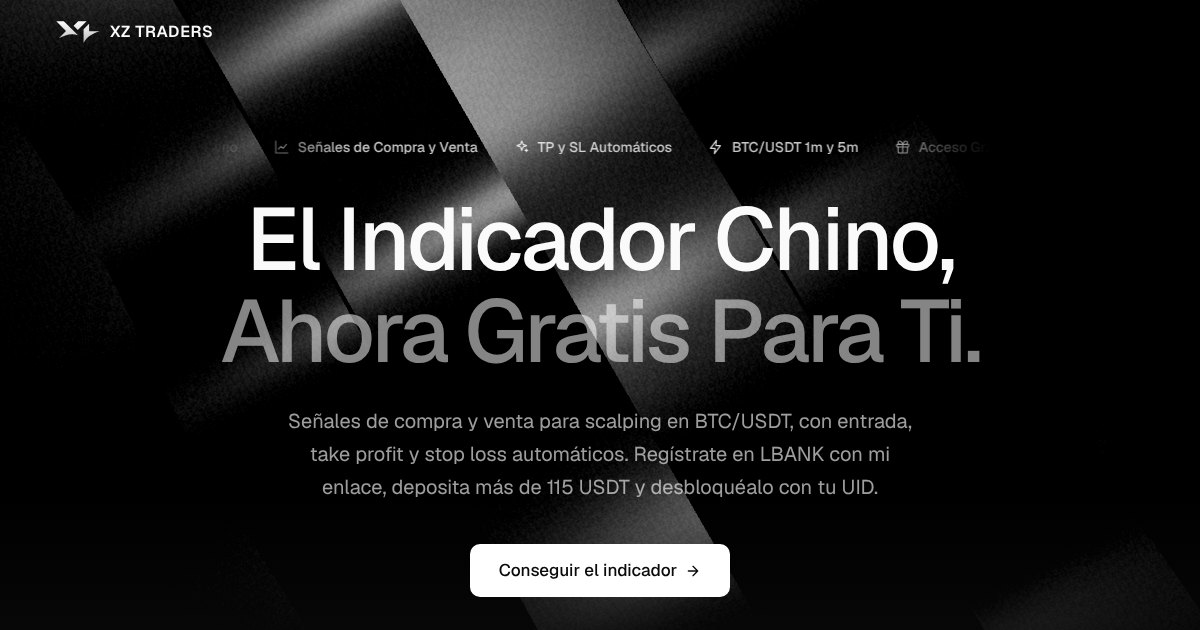
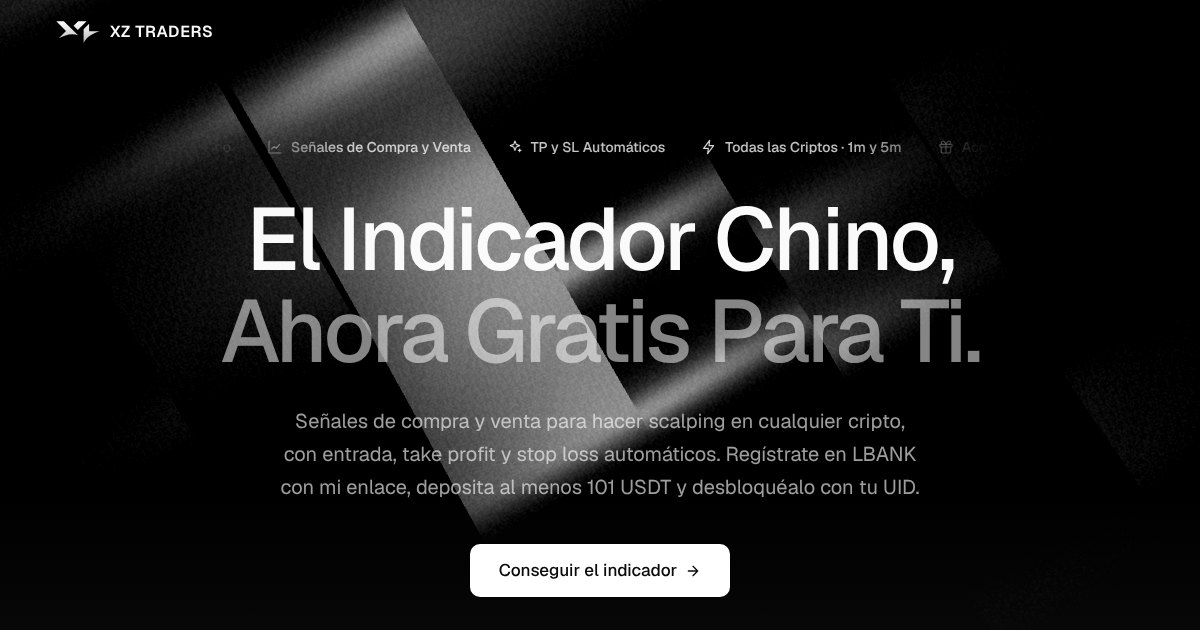
Web: mínimo de 101 USDT y scalping para todas las criptos
- Todos los textos pasan de "más de 115 USDT" a "al menos 101 USDT".
  La API sigue exigiendo 100 USDT (MIN_DEPOSIT), para dejar margen.
- El indicador se presenta como scalping para cualquier cripto, no
  solo BTC/USDT.
- Imagen para redes regenerada.

Claude-Session: https://claude.ai/code/session_01BGcnFHYadWKZMfGM3phv2L

diff --git a/public/index.html b/public/index.html
@@ -12,7 +12,7 @@
     <title>Indicador Chino de XZ TRADERS · Gratis con tu cuenta de LBANK</title>
     <meta
       name="description"
-      content="Consigue gratis el indicador chino de XZ TRADERS para TradingView: señales de compra y venta en BTC/USDT con entrada, take profit y stop loss automáticos. Regístrate en LBANK con nuestro enlace, deposita más de 115 USDT y desbloquéalo con tu UID."
+      content="Consigue gratis el indicador chino de XZ TRADERS para TradingView: señales de scalping para cualquier cripto con entrada, take profit y stop loss automáticos. Regístrate en LBANK con nuestro enlace, deposita al menos 101 USDT y desbloquéalo con tu UID."
     />
     <meta name="theme-color" content="#000000" />
     <link rel="canonical" href="https://indicador.xztraders.com/" />
@@ -24,7 +24,7 @@
     <meta property="og:title" content="El Indicador Chino de XZ TRADERS, ahora gratis" />
     <meta
       property="og:description"
-      content="Regístrate en LBANK con nuestro enlace, deposita más de 115 USDT y desbloquéalo al momento con tu UID."
+      content="Regístrate en LBANK con nuestro enlace, deposita al menos 101 USDT y desbloquéalo al momento con tu UID."
     />
     <meta property="og:image" content="https://indicador.xztraders.com/assets/img/og-cover.jpg" />
     <meta property="og:image:width" content="1200" />
@@ -111,14 +111,14 @@
               <li><svg aria-hidden="true"><use href="#i-indicator" /></svg>Indicador Chino</li>
               <li><svg aria-hidden="true"><use href="#i-analysis" /></svg>Señales de Compra y Venta</li>
               <li><svg aria-hidden="true"><use href="#i-sparkles" /></svg>TP y SL Automáticos</li>
-              <li><svg aria-hidden="true"><use href="#i-bolt" /></svg>BTC/USDT 1m y 5m</li>
+              <li><svg aria-hidden="true"><use href="#i-bolt" /></svg>Todas las Criptos · 1m y 5m</li>
               <li><svg aria-hidden="true"><use href="#i-gift" /></svg>Acceso Gratis</li>
             </ul>
             <ul class="marquee__track" aria-hidden="true">
               <li><svg><use href="#i-indicator" /></svg>Indicador Chino</li>
               <li><svg><use href="#i-analysis" /></svg>Señales de Compra y Venta</li>
               <li><svg><use href="#i-sparkles" /></svg>TP y SL Automáticos</li>
-              <li><svg><use href="#i-bolt" /></svg>BTC/USDT 1m y 5m</li>
+              <li><svg><use href="#i-bolt" /></svg>Todas las Criptos · 1m y 5m</li>
               <li><svg><use href="#i-gift" /></svg>Acceso Gratis</li>
             </ul>
           </div>
@@ -129,8 +129,8 @@
           </h1>
 
           <p class="hero__lead">
-            Señales de compra y venta para scalping en BTC/USDT, con entrada, take profit y stop loss automáticos.
-            Regístrate en LBANK con mi enlace, deposita más de 115&nbsp;USDT y desbloquéalo con tu UID.
+            Señales de compra y venta para hacer scalping en cualquier cripto, con entrada, take profit y stop loss automáticos.
+            Regístrate en LBANK con mi enlace, deposita al menos 101&nbsp;USDT y desbloquéalo con tu UID.
           </p>
 
           <div class="hero__ctas">
@@ -167,8 +167,8 @@
             </article>
             <article class="feature reveal">
               <span class="icon-box icon-box--accent"><svg aria-hidden="true"><use href="#i-bolt" /></svg></span>
-              <h3>Scalping en BTC/USDT</h3>
-              <p>Pensado para BTC/USDT perpetuo en gráficos de 1 y 5 minutos.</p>
+              <h3>Scalping en todas las criptos</h3>
+              <p>Úsalo en Bitcoin y en cualquier otra cripto, en gráficos de 1 y 5 minutos.</p>
             </article>
             <article class="feature reveal">
               <span class="icon-box icon-box--accent"><svg aria-hidden="true"><use href="#i-analysis" /></svg></span>
@@ -206,7 +206,7 @@
             <li class="step reveal">
               <span class="step__num">02</span>
               <span class="icon-box"><svg aria-hidden="true"><use href="#i-wallet" /></svg></span>
-              <h3>Deposita más de 115&nbsp;USDT</h3>
+              <h3>Deposita al menos 101&nbsp;USDT</h3>
               <p>Es tu capital para operar y se queda en tu cuenta. No es un pago.</p>
             </li>
             <li class="step reveal">
@@ -228,7 +228,7 @@
           <div class="section-head section-head--center reveal">
             <p class="eyebrow eyebrow--lines">Desbloquear</p>
             <h2 class="h2 h2--xl">Consigue el indicador.</h2>
-            <p class="lead">Comprobamos que tu cuenta se creó con mi enlace y que has depositado más de 115&nbsp;USDT. Si todo está bien, te damos el enlace al momento.</p>
+            <p class="lead">Comprobamos que tu cuenta se creó con mi enlace y que has depositado al menos 101&nbsp;USDT. Si todo está bien, te damos el enlace al momento.</p>
           </div>
 
           <div class="verify reveal">
@@ -278,10 +278,10 @@
             </details>
             <details>
               <summary>¿Cómo consigo el indicador?<svg aria-hidden="true"><use href="#i-plus" /></svg></summary>
-              <p>Regístrate en LBANK con mi enlace, deposita más de 115&nbsp;USDT y escribe tu UID en el <a class="link" href="#verificar">formulario de verificación</a>. Si todo está bien, recibes el enlace al momento.</p>
+              <p>Regístrate en LBANK con mi enlace, deposita al menos 101&nbsp;USDT y escribe tu UID en el <a class="link" href="#verificar">formulario de verificación</a>. Si todo está bien, recibes el enlace al momento.</p>
             </details>
             <details>
-              <summary>¿Los 115&nbsp;USDT son un pago?<svg aria-hidden="true"><use href="#i-plus" /></svg></summary>
+              <summary>¿Los 101&nbsp;USDT son un pago?<svg aria-hidden="true"><use href="#i-plus" /></svg></summary>
               <p>No. Es tu capital para operar y se queda en tu cuenta de LBANK.</p>
             </details>
             <details>
@@ -298,7 +298,7 @@
             </details>
             <details>
               <summary>¿Qué es el indicador chino?<svg aria-hidden="true"><use href="#i-plus" /></svg></summary>
-              <p>Un indicador de scalping para BTC/USDT en 1 y 5 minutos. Da señales de compra y venta con entrada, take profit y stop loss automáticos, y marca cada operación con ✓ si llega al TP o con ✗ si toca el SL.</p>
+              <p>Un indicador de scalping para cripto: sirve para Bitcoin y para cualquier otra moneda, en gráficos de 1 y 5 minutos. Da señales de compra y venta con entrada, take profit y stop loss automáticos, y marca cada operación con ✓ si llega al TP o con ✗ si toca el SL.</p>
             </details>
             <details>
               <summary>¿Dónde lo uso?<svg aria-hidden="true"><use href="#i-plus" /></svg></summary>

diff --git a/public/assets/js/main.js b/public/assets/js/main.js
@@ -25,7 +25,7 @@ const VERIFY_MESSAGES = {
   },
   not_registered: {
     title: 'Esta cuenta no está registrada con mi enlace',
-    text: 'Crea una cuenta nueva en LBANK con mi enlace, deposita más de 115 USDT y vuelve a probar.',
+    text: 'Crea una cuenta nueva en LBANK con mi enlace, deposita al menos 101 USDT y vuelve a probar.',
     action: { label: 'Abrir LBANK', link: 'lbank' },
   },
   not_direct: {
@@ -34,8 +34,8 @@ const VERIFY_MESSAGES = {
     action: { label: 'Abrir LBANK', link: 'lbank' },
   },
   low_deposit: {
-    title: 'Aún no llegas a 115 USDT depositados',
-    text: 'Deposita más de 115 USDT en tu cuenta de LBANK. Si acabas de hacerlo, espera unos minutos y vuelve a probar.',
+    title: 'Aún no llegas a 101 USDT depositados',
+    text: 'Deposita al menos 101 USDT en tu cuenta de LBANK. Si acabas de hacerlo, espera unos minutos y vuelve a probar.',
   },
   rate_limited: {
     title: 'Demasiados intentos',

diff --git a/test/verify.test.js b/test/verify.test.js
@@ -121,7 +121,7 @@ describe('/api/verify', () => {
     assert.deepEqual(body, { ok: true, url: ENV.INDICATOR_URL });
   });
 
-  it('acepta justo el mínimo de la API (100), aunque la web diga 115', async () => {
+  it('acepta justo el mínimo de la API (100), aunque la web diga 101', async () => {
     assert.equal((await verify('LBA000EXACT', users)).body.ok, true);
     assert.equal((await verify('LBA000110', users)).body.ok, true);
   });

diff --git a/README.md b/README.md
@@ -3,7 +3,7 @@
 Web del **Indicador Chino** de XZ TRADERS. Para conseguirlo, el usuario:
 
 1. Se registra en LBANK con el enlace de afiliado.
-2. Deposita más de 115 USDT.
+2. Deposita al menos 101 USDT.
 3. Escribe su UID de LBANK en la web. Se comprueba al momento con la API de afiliados de LBANK y, si cumple, recibe el enlace del indicador.
 
 La web se publica en **Netlify**. La comprobación es una función de Netlify (`/api/verify`) porque la clave de la API de LBANK no puede estar en la página: cualquiera podría verla, y además LBANK no deja que un navegador llame a su API directamente.
@@ -53,7 +53,7 @@ Se configuran en Netlify, en *Site configuration → Environment variables*. Nun
 | `LBANK_API_KEY`         | Sí          | API key de afiliado de LBANK                                           |
 | `LBANK_API_SECRET`      | Sí          | Secret key de esa API key (firma HmacSHA256)                           |
 | `INDICATOR_URL`         | Sí          | Enlace que recibe quien cumple: `https://es.tradingview.com/script/stIGX5O9/` |
-| `MIN_DEPOSIT`           | No (`100`)  | USDT mínimos que exige la API. La web pide 115 a propósito: así hay margen |
+| `MIN_DEPOSIT`           | No (`100`)  | USDT mínimos que exige la API. La web pide 101 a propósito: así hay margen |
 | `DEPOSIT_FIELD`         | No (`netDeposit`) | `netDeposit` (depósitos − retiradas) o `totalDeposit` (solo depósitos) |
 | `REQUIRE_DIRECT_INVITE` | No (`true`) | `false` acepta también a los invitados por tus subafiliados            |
 
